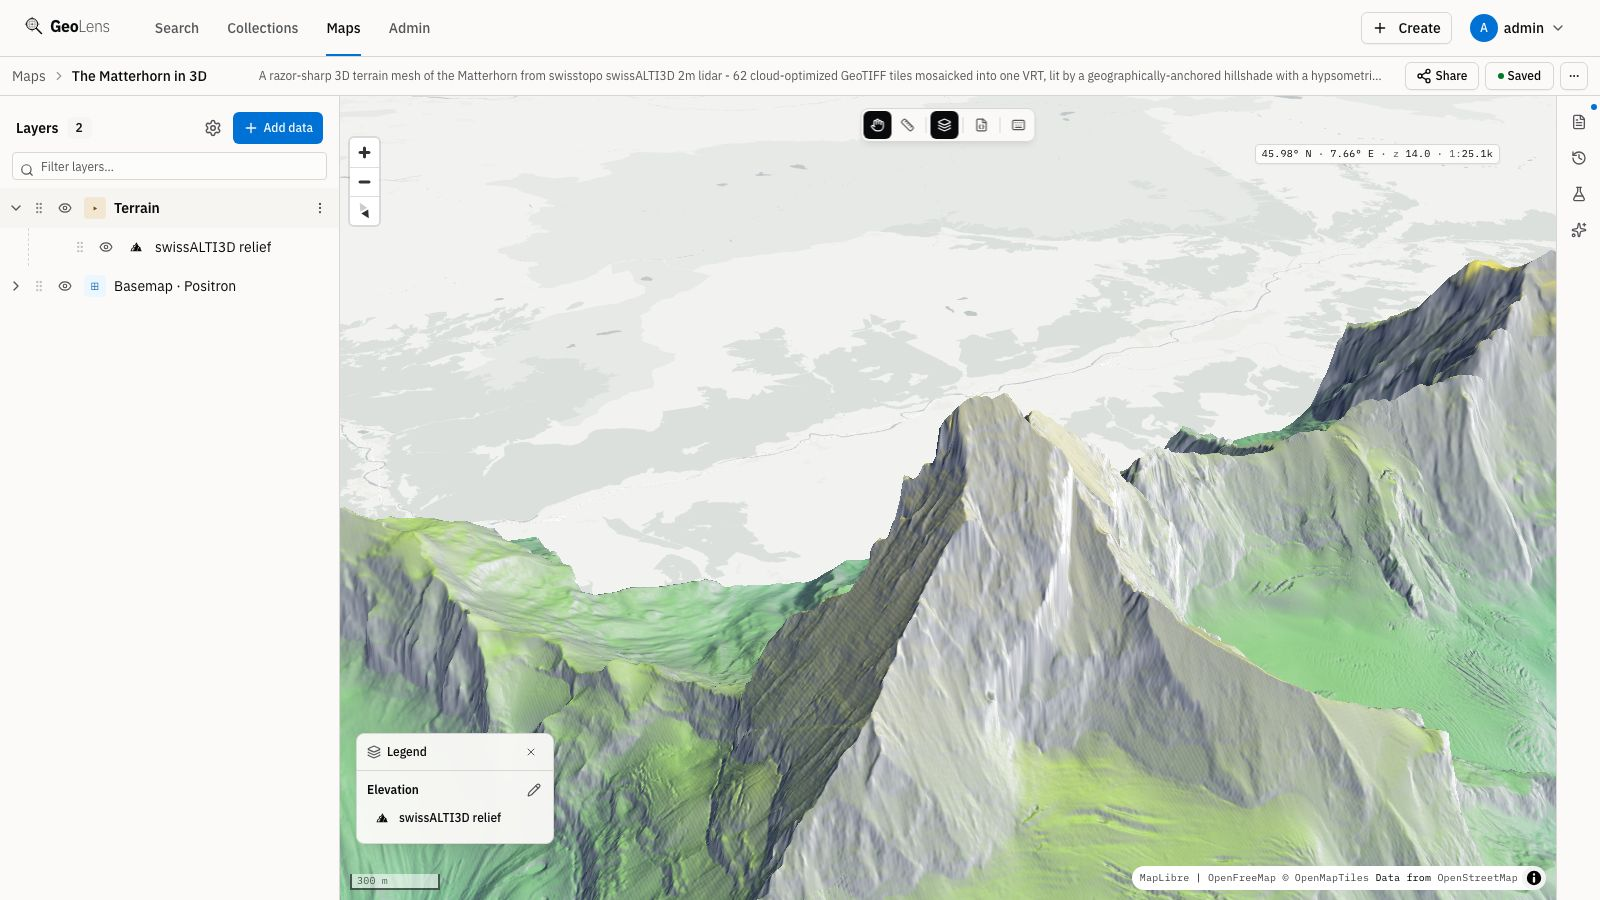
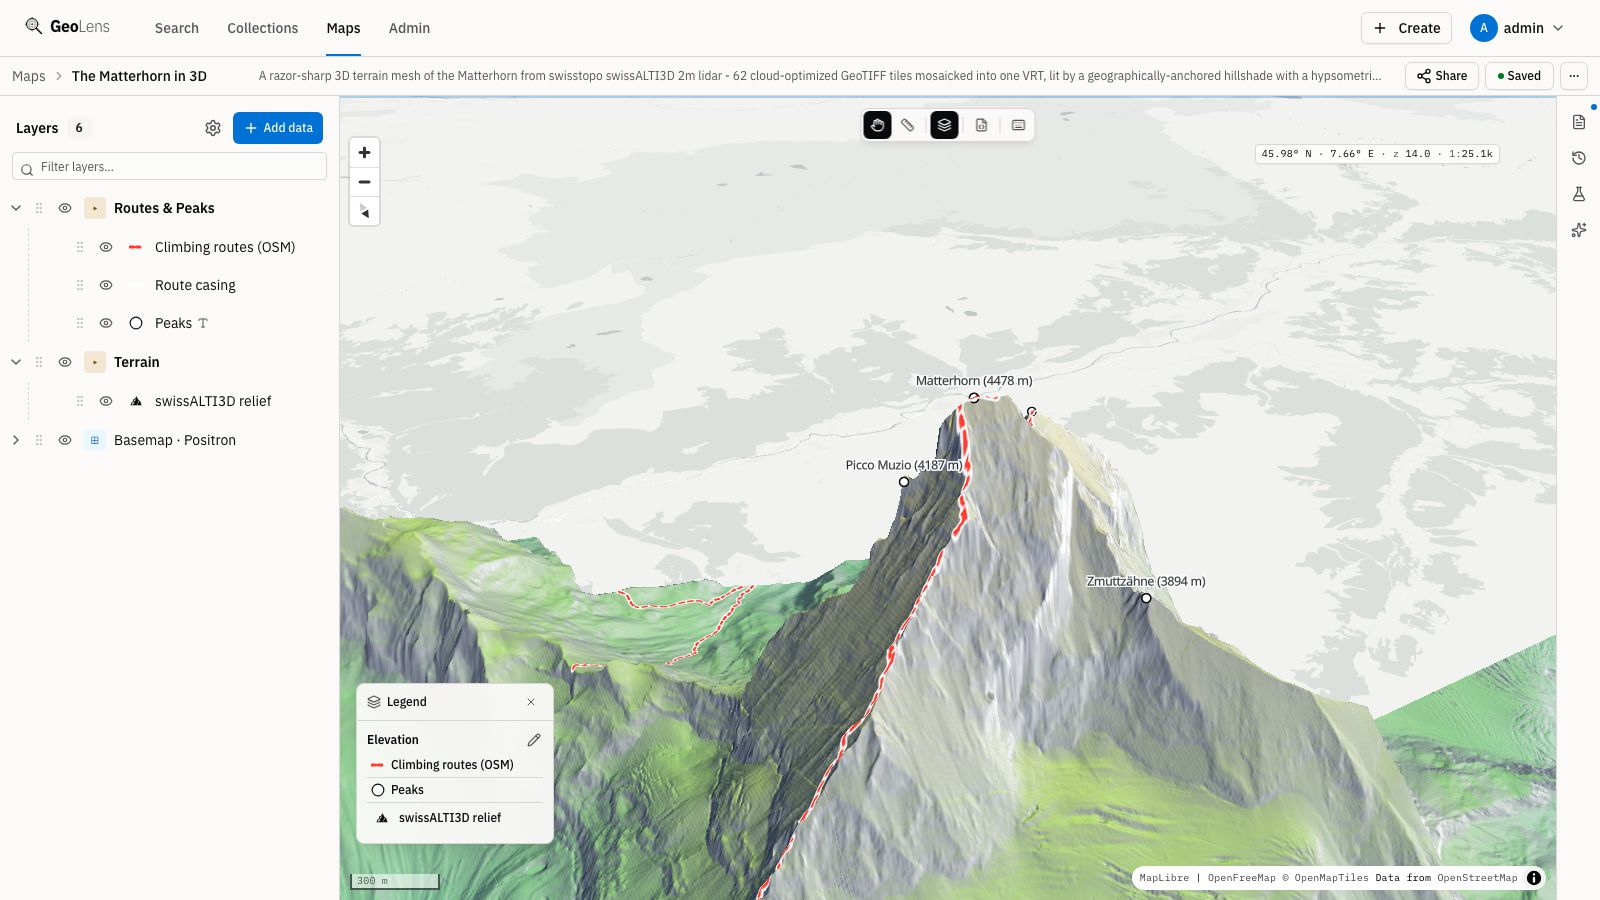
chore(readme): recapture the Matterhorn shot with its restored overlays
The seeder repair (#1509) brought back the Climbing routes, Route
casing, and Peaks layers, so the Build shot now shows the labeled
summits and the dashed-red Lion Ridge routes its alt text originally
promised, and the alt gets that wording back. Follows the interim
downgrade in #1507, closing the loop on the review finding there.

diff --git a/README.md b/README.md
@@ -178,7 +178,7 @@ Each example above has a full guide in the [docs](https://docs.getgeolens.com/gu
 </p>
 
 <p align="center">
-  <img src=".github/assets/geolens-matterhorn-terrain.jpg" alt="GeoLens map builder rendering the Matterhorn as a 3D terrain mesh from swissALTI3D lidar, with the drag-orderable layer stack and a legend" width="900" />
+  <img src=".github/assets/geolens-matterhorn-terrain.jpg" alt="GeoLens map builder rendering the Matterhorn as a 3D terrain mesh from swissALTI3D lidar, with labeled peaks, climbing routes, the drag-orderable layer stack, and a legend" width="900" />
   <br />
   <em><strong>Build:</strong> compose multi-layer maps in the browser with a drag-orderable layer stack and per-layer editors (here: the Matterhorn as a 3D terrain mesh from swissALTI3D lidar)</em>
 </p>
